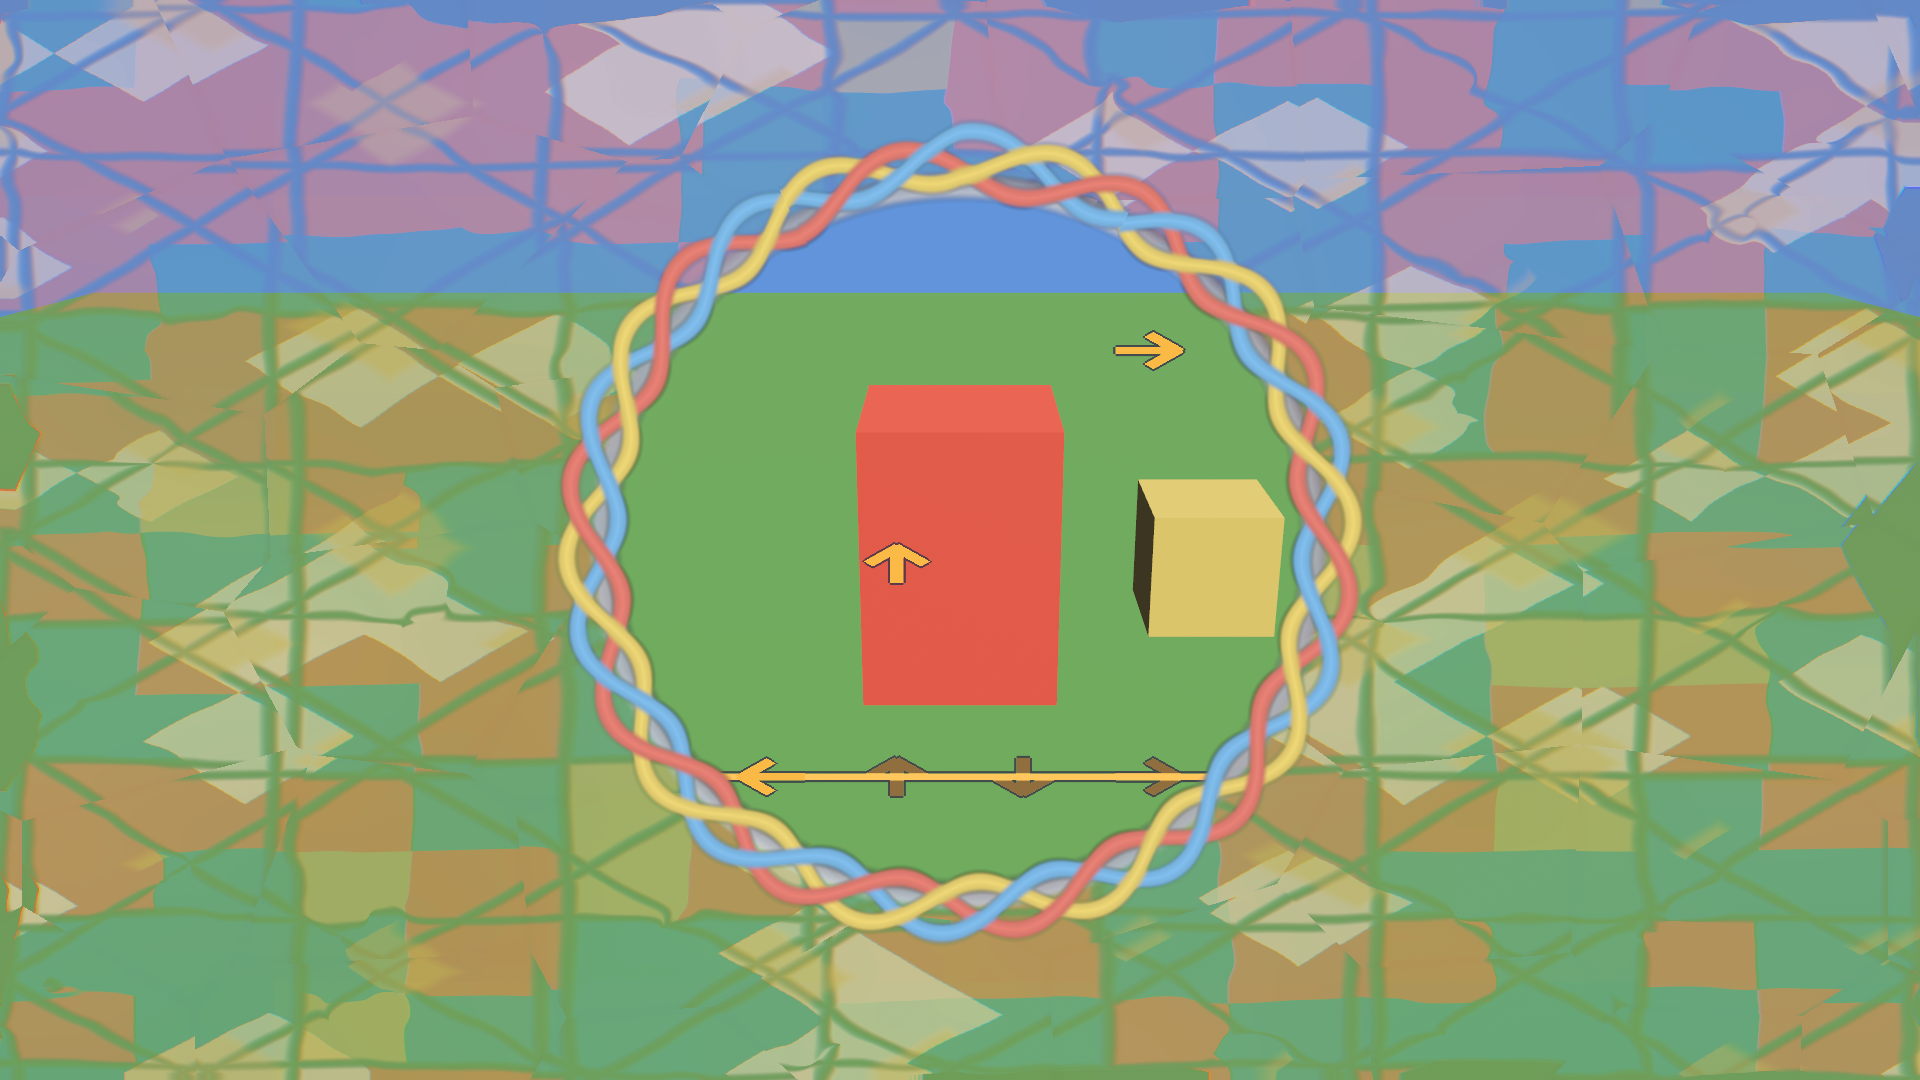
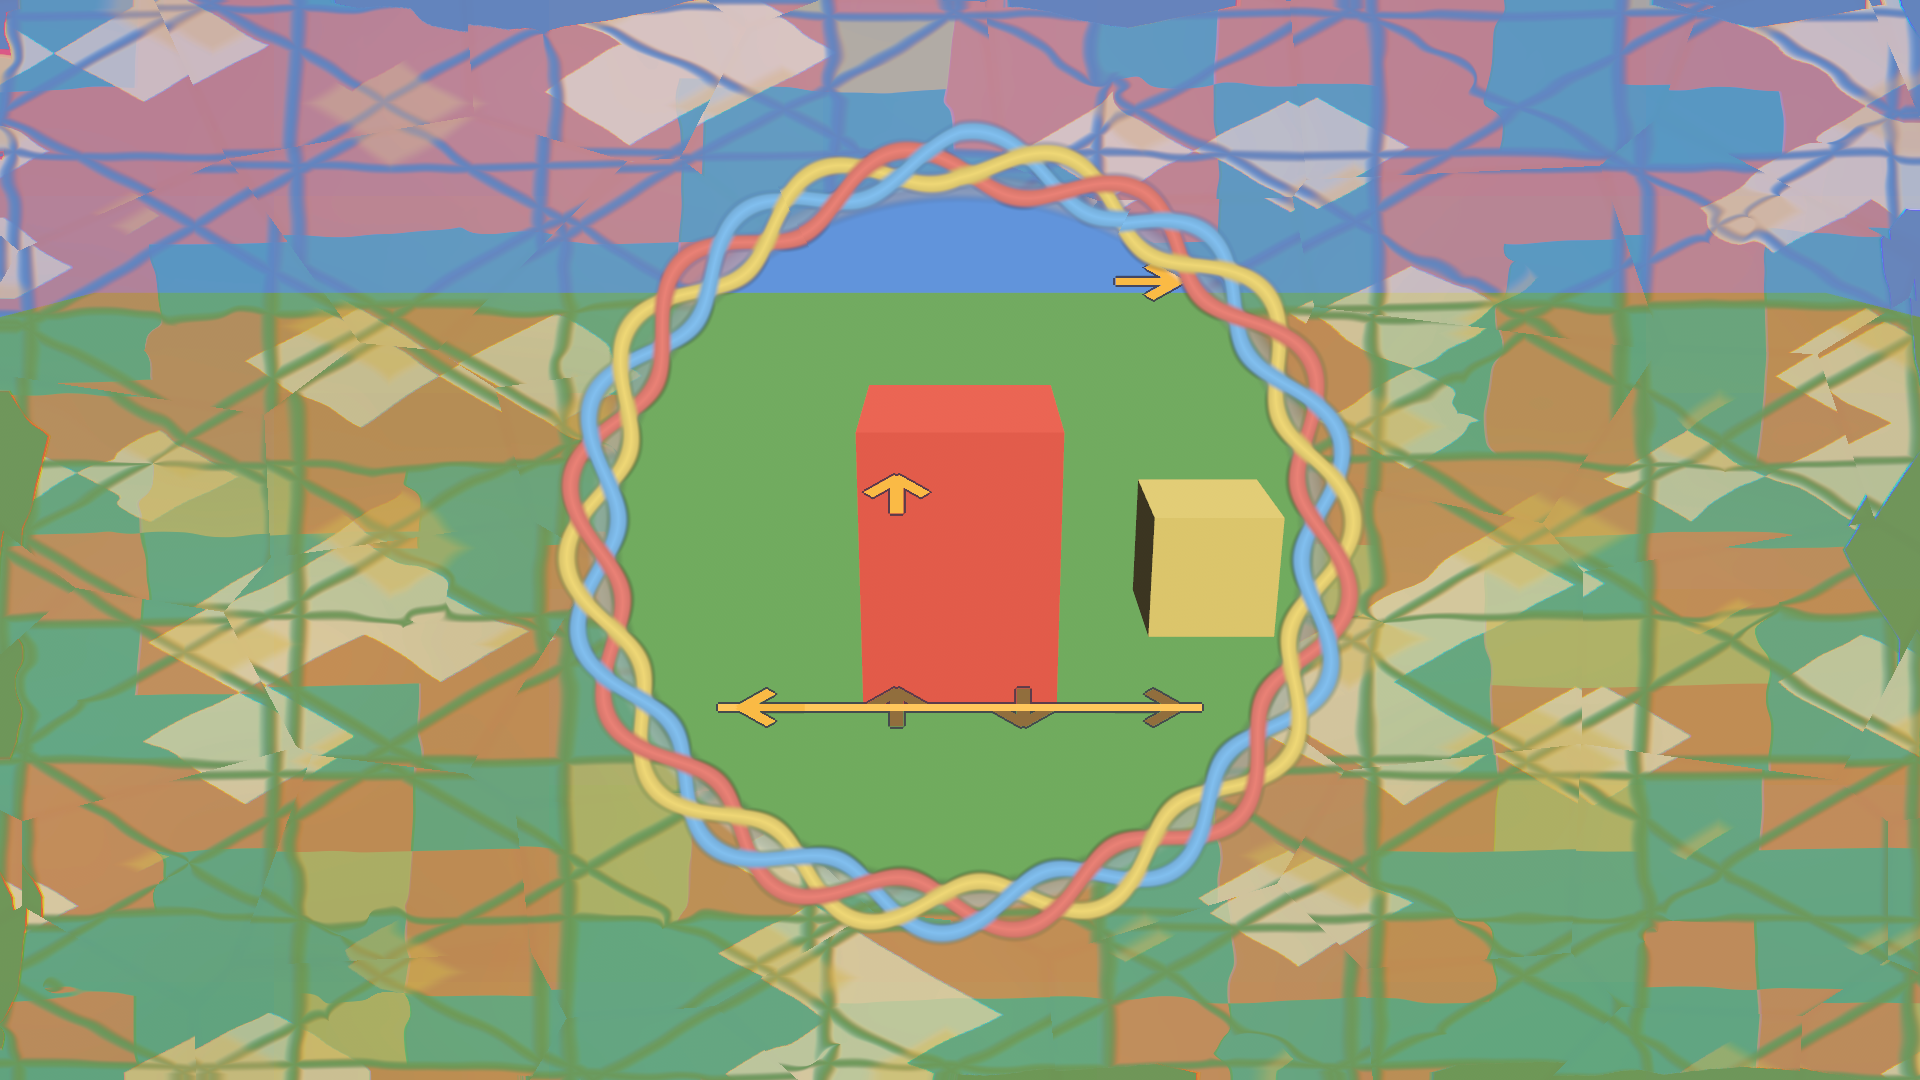
fix(skill-map): midway mosaic opacity, trim the feed hit line, fade the uncurl rim
The run-6 compositor paint sat too far on the see-through side. Floor/gain
and land veil sit roughly halfway back toward the earlier opaque field so
the map still reads while the world shows through. The DDR hit line is
derived from the 0.75 lens inner circle so it no longer runs under the
braid, and the grey rim multiplies by curl so uncurl hides it and re-plait
brings it back.

Compositor paint (the mosaic field the eye actually sees):

| knob | before (run 6) | after |
| --- | --- | --- |
| `OVERLAY_PAINT_FLOOR` | 0.16 | 0.24 |
| `OVERLAY_PAINT_GAIN` | 0.36 | 0.42 |
| mosaic `pane_alpha` | ~0.505 | ~0.643 |
| flat land `pane_alpha` | ~0.228 | ~0.319 |

Tile RT veil (RGB into the compositor; still well below mark-keep 0.72):

| knob | before | after |
| --- | --- | --- |
| `TILE_OVERLAY_ALPHA_SCALE` | 0.18 | 0.23 |
| `TILE_OVERLAY_ALPHA_BIAS` | 0.03 | 0.04 |
| land `overlay_alpha(1,1)` | 0.21 | 0.27 |

`LENS_POCKET_SCALE` stays 0.75 (~355px at 1080p). Feed `hit_line_y` /
`hit_line_width` come from the inner overlay-pixel circle so the bar's
corners stay inside the glass. GPU stills recaptured at 1920×1080.

## Agent Dialogue

- **Developer:** Liam on #1653 run 6: mosaic outside the lens is too
  transparent vs earlier runs — sit roughly midway. Trim the DDR hit
  line so it stays inside the ring. Fade the exposed grey rim while the
  braid is unravelled; bring it back on re-plait. Keep 0.75×. Recapture
  Feed idle/fire/uncurl/replait, Fireball uncurl, Cosimo idle at
[…]

diff --git a/maybraid/items/skill-map/src/feed_view.rs b/maybraid/items/skill-map/src/feed_view.rs
@@ -4,17 +4,19 @@ use bevy::prelude::*;
 use menu_components::{HudFonts, TANZ_CALLOUT_ICON_PX};
 
 use crate::feed::{FeedDirection, FeedState, FeedStepStatus, FEED_STEPS};
+use crate::lens::{SkillMapOverlayLens, BRAID_STROKE_FRAC, LENS_RING_THICKNESS_FRAC};
 use crate::map::{render_layer, AuthoredMap};
 use crate::tile_material::SkillMapTileAssets;
 use crate::user::{SkillMapHeld, SkillMapMember};
 use crate::viewport::{map_view_extent, SkillMapCollapsedChrome};
 
-const HIT_Y: f32 = -20.0;
 const TOP_Y: f32 = 22.0;
 const SCROLL_SPEED: f32 = 24.0;
 const GOLD: Color = Color::srgb(0.98, 0.73, 0.27);
 const HIT: Color = Color::srgb(0.38, 0.96, 0.65);
 const MISS: Color = Color::srgb(0.98, 0.32, 0.20);
+/// Overlay size used to translate map units onto the 16:9 held compositor.
+const OVERLAY_REFERENCE_WIDTH_PX: f32 = 1920.0;
 /// Overlay height used to translate [`TANZ_CALLOUT_ICON_PX`] into map units.
 const OVERLAY_REFERENCE_HEIGHT_PX: f32 = 1080.0;
 /// Authored chevron height (stem + barbs) before [`FeedArrow::scale`].
@@ -23,7 +25,6 @@ const FEED_ARROW_AUTHOR_HEIGHT: f32 = 7.25;
 const FEED_LANE_WIDTH: f32 = 1.0 / 3.0;
 const LANE_OUTER: f32 = 27.0 * FEED_LANE_WIDTH;
 const LANE_INNER: f32 = 9.0 * FEED_LANE_WIDTH;
-const HIT_LINE_WIDTH: f32 = 72.0 * FEED_LANE_WIDTH;
 
 #[derive(Component)]
 pub(crate) struct FeedPrompt {
@@ -56,12 +57,35 @@ impl FeedArrow {
 		Self::height() / FEED_ARROW_AUTHOR_HEIGHT
 	}
 
+	/// Lower-half receptor line, in map units, kept inside the lens glass.
+	pub fn hit_line_y() -> f32 {
+		-(Self::lens_inner_radius_px() * 0.52) / Self::overlay_px_per_map().y
+	}
+
 	pub fn hit_line_width() -> f32 {
-		HIT_LINE_WIDTH
+		let inner = Self::lens_inner_radius_px();
+		let px = Self::overlay_px_per_map();
+		let y_px = Self::hit_line_y().abs() * px.y;
+		let half_px = (inner * inner - y_px * y_px).max(0.0).sqrt() * 0.88;
+		half_px / px.x * 2.0
 	}
 
 	pub fn hit_line_color() -> Color {
 		Color::srgb(1.0, 0.78, 0.36)
+	}
+
+	fn overlay_px_per_map() -> Vec2 {
+		let extent = map_view_extent();
+		Vec2::new(
+			OVERLAY_REFERENCE_WIDTH_PX / extent.x.max(1e-5),
+			OVERLAY_REFERENCE_HEIGHT_PX / extent.y.max(1e-5),
+		)
+	}
+
+	fn lens_inner_radius_px() -> f32 {
+		SkillMapOverlayLens::min_axis_radius_frac()
+			* OVERLAY_REFERENCE_HEIGHT_PX
+			* (1.0 - LENS_RING_THICKNESS_FRAC - BRAID_STROKE_FRAC)
 	}
 
 	pub fn spawn_note(
@@ -139,12 +163,13 @@ impl FeedPrompt {
 		} else {
 			due - state.elapsed()
 		};
-		let y = HIT_Y + remaining * SCROLL_SPEED;
+		let hit_y = FeedArrow::hit_line_y();
+		let y = hit_y + remaining * SCROLL_SPEED;
 		if status == FeedStepStatus::Hit {
-			return (HIT_Y, remaining >= -0.13, HIT);
+			return (hit_y, remaining >= -0.13, HIT);
 		}
 		let color = if status == FeedStepStatus::Missed { MISS } else { GOLD };
-		(y, (HIT_Y - 10.0..=TOP_Y).contains(&y), color)
+		(y, (hit_y - 10.0..=TOP_Y).contains(&y), color)
 	}
 }
 
@@ -180,7 +205,7 @@ pub(crate) fn spawn_feed_scene(
 		{
 			board
 				.spawn((
-					Transform::from_xyz(direction.lane_x(), HIT_Y, 0.2)
+					Transform::from_xyz(direction.lane_x(), FeedArrow::hit_line_y(), 0.2)
 						.with_rotation(direction.rotation())
 						.with_scale(Vec3::splat(FeedArrow::scale())),
 					Visibility::Inherited,
@@ -195,7 +220,7 @@ pub(crate) fn spawn_feed_scene(
 				FeedArrow::hit_line_color(),
 				Vec2::new(FeedArrow::hit_line_width(), 0.6),
 			),
-			Transform::from_xyz(0.0, HIT_Y, 0.3),
+			Transform::from_xyz(0.0, FeedArrow::hit_line_y(), 0.3),
 			layer.clone(),
 		));
 	});
@@ -308,7 +333,7 @@ mod tests {
 	use character_items::{SkillMapKind, SkillMapSpec};
 
 	use crate::feed::{FeedDirection, FeedState, FEED_WINDOW_SECS};
-	use crate::feed_view::{spawn_feed_scene, FeedArrow, FeedPrompt, HIT, HIT_Y};
+	use crate::feed_view::{spawn_feed_scene, FeedArrow, FeedPrompt, HIT};
 	use crate::map::authored_map_from_spec;
 	use crate::tile_material::SkillMapTileAssets;
 	use crate::tiles::SkillMapTile;
@@ -323,11 +348,11 @@ mod tests {
 		feed.advance(FeedState::step_time(1) - FEED_WINDOW_SECS * 0.5);
 		assert!(feed.strike(Vec2::Y));
 		let up = FeedPrompt { index: 1, origin: Vec2::ZERO };
-		assert_eq!(up.presentation(&feed), (HIT_Y, true, HIT));
+		assert_eq!(up.presentation(&feed), (FeedArrow::hit_line_y(), true, HIT));
 		feed.advance(FeedState::cycle_duration() - feed.elapsed() - FEED_WINDOW_SECS * 0.5);
 		assert!(feed.strike(Vec2::NEG_X));
 		let left = FeedPrompt { index: 0, origin: Vec2::ZERO };
-		assert_eq!(left.presentation(&feed), (HIT_Y, true, HIT));
+		assert_eq!(left.presentation(&feed), (FeedArrow::hit_line_y(), true, HIT));
 	}
 
 	#[test]
@@ -408,8 +433,23 @@ mod tests {
 		assert!((FeedDirection::Up.lane_x() + 3.0).abs() < 1e-4);
 		assert!((FeedDirection::Down.lane_x() - 3.0).abs() < 1e-4);
 		assert!((FeedDirection::Right.lane_x() - 9.0).abs() < 1e-4);
-		assert!((FeedArrow::hit_line_width() - 24.0).abs() < 1e-4);
 		assert_eq!(TANZ_CALLOUT_ICON_PX, 40.0);
 		assert!((FeedArrow::hit_line_color().to_srgba().alpha - 1.0).abs() < 1e-5);
+		let px = super::OVERLAY_REFERENCE_WIDTH_PX / map_view_extent().x;
+		let py = super::OVERLAY_REFERENCE_HEIGHT_PX / map_view_extent().y;
+		let inner = crate::SkillMapOverlayLens::min_axis_radius_frac()
+			* super::OVERLAY_REFERENCE_HEIGHT_PX
+			* (1.0 - crate::LENS_RING_THICKNESS_FRAC - crate::BRAID_STROKE_FRAC);
+		let half = FeedArrow::hit_line_width() * 0.5;
+		let y = FeedArrow::hit_line_y().abs();
+		let corner = Vec2::new(half * px, y * py).length();
+		assert!(
+			corner < inner,
+			"hit line must sit inside the lens glass, corner={corner} inner={inner}"
+		);
+		assert!(
+			FeedArrow::hit_line_width() < 24.0,
+			"hit line must be shorter than the old chart-wide bar"
+		);
 	}
 }

diff --git a/maybraid/items/skill-map/src/overlay.rs b/maybraid/items/skill-map/src/overlay.rs
@@ -46,8 +46,8 @@ pub const OVERLAY_CLEAR_ALPHA: f32 = 0.024;
 pub const OVERLAY_FRAME_FILL_ALPHA: f32 = 0.010;
 /// Keep in sync with `overlay_material.wesl`. Land uses paint, not sample×bias coverage.
 pub const OVERLAY_COMPOSITOR_CAME_ALPHA: f32 = 0.084;
-pub const OVERLAY_PAINT_FLOOR: f32 = 0.16;
-pub const OVERLAY_PAINT_GAIN: f32 = 0.36;
+pub const OVERLAY_PAINT_FLOOR: f32 = 0.24;
+pub const OVERLAY_PAINT_GAIN: f32 = 0.42;
 pub const OVERLAY_PAINT_CHROMA: f32 = 2.6;
 pub const OVERLAY_PAINT_LUMA: f32 = 0.45;
 pub const OVERLAY_PAINT_RECOVER: f32 = 0.08;
@@ -56,7 +56,7 @@ pub const OVERLAY_PAINT_SATURATION: f32 = 1.45;
 pub const OVERLAY_LAND_PIGMENT: Vec3 = Vec3::new(0.58, 0.28, 0.16);
 pub const OVERLAY_MARK_ALPHA_LO: f32 = 0.60;
 pub const OVERLAY_MARK_ALPHA_HI: f32 = 0.90;
-/// Stricter keep on the lens interior so land veil (~0.21) cannot fill the hole.
+/// Stricter keep on the lens interior so land veil (~0.27) cannot fill the hole.
 /// Keep in sync with `overlay_material.wesl`.
 pub const OVERLAY_MARK_LENS_ALPHA_LO: f32 = 0.72;
 pub const OVERLAY_MARK_LENS_ALPHA_HI: f32 = 0.92;
@@ -1179,8 +1179,8 @@ mod tests {
 		assert!((OVERLAY_CLEAR_ALPHA - 0.024).abs() < 1e-6);
 		assert!((OVERLAY_FRAME_FILL_ALPHA - 0.010).abs() < 1e-6);
 		assert!((OVERLAY_WARP - 0.28).abs() < 1e-6);
-		assert!((OVERLAY_PAINT_FLOOR - 0.16).abs() < 1e-6);
-		assert!((OVERLAY_PAINT_GAIN - 0.36).abs() < 1e-6);
+		assert!((OVERLAY_PAINT_FLOOR - 0.24).abs() < 1e-6);
+		assert!((OVERLAY_PAINT_GAIN - 0.42).abs() < 1e-6);
 		assert!((OVERLAY_PAINT_LUMA - 0.45).abs() < 1e-6);
 		assert!((OVERLAY_PAINT_SATURATION - 1.45).abs() < 1e-6);
 	}
@@ -1207,13 +1207,13 @@ mod tests {
 	fn expanded_overlay_paints_mosaic_without_a_coverage_sheet() {
 		let mosaic = SkillMapOverlay::Expanded.pane_alpha(1.0);
 		let flat = SkillMapOverlay::Expanded.pane_alpha_for_pigment(Vec3::splat(0.42), 1.0);
-		assert!(flat >= 0.20, "earthy land must still stamp, not vanish, got {flat}");
-		assert!(flat <= 0.32, "low-chroma land must leave world geometry readable, got {flat}");
+		assert!(flat >= 0.28, "earthy land must still stamp, not vanish, got {flat}");
+		assert!(flat <= 0.40, "low-chroma land must leave world geometry readable, got {flat}");
 		assert!(
 			mosaic > flat + 0.12,
 			"mosaic ink must paint harder than a flat wash ({mosaic} vs {flat})"
 		);
-		assert!(mosaic <= 0.62, "even saturated land must leave the world visible, got {mosaic}");
+		assert!(mosaic <= 0.72, "even saturated land must leave the world visible, got {mosaic}");
 		assert!((SkillMapOverlay::Collapsed.pane_alpha(1.0) - 1.0).abs() < 1e-5);
 	}
 

diff --git a/maybraid/items/skill-map/src/lens.rs b/maybraid/items/skill-map/src/lens.rs
@@ -348,7 +348,7 @@ impl OverlayParams {
 		let d = (r - radius).abs();
 		let span = (thick * 0.65).max(1e-4);
 		let t = ((d - thick * 0.35) / span).clamp(0.0, 1.0);
-		(1.0 - t * t * (3.0 - 2.0 * t)) * self.amount
+		(1.0 - t * t * (3.0 - 2.0 * t)) * self.amount * self.curl.clamp(0.0, 1.0).powf(1.6)
 	}
 
 	pub fn braid_sample(self, uv: Vec2, size: Vec2) -> OverlayBraidSample {
@@ -850,6 +850,34 @@ mod tests {
 		assert!(
 			flash_c.max_element() > idle_c.max_element() + 0.25,
 			"braid must flash brighter, idle={idle_c} flash={flash_c}"
+		);
+		Ok(())
+	}
+
+	#[test]
+	fn ring_fades_while_the_braid_unravels() -> anyhow::Result<()> {
+		let size = square();
+		let idle = idle_params();
+		let open = OverlayParams::from_overlay_lens(
+			SkillMapOverlay::Expanded,
+			SkillMapOverlayLens::mid_uncurl(),
+		);
+		let shut = OverlayParams::from_overlay_lens(
+			SkillMapOverlay::Expanded,
+			SkillMapOverlayLens::mid_replait(),
+		);
+		let rim = Vec2::new(0.5 + idle.lens_radius, 0.5);
+		let idle_ring = idle.ring_alpha(rim, size);
+		let open_ring = open.ring_alpha(rim, size);
+		let shut_ring = shut.ring_alpha(rim, size);
+		assert!(idle_ring > 0.4, "idle ring stays on, got {idle_ring}");
+		assert!(
+			open_ring < idle_ring * 0.35,
+			"uncurl must hide the grey rim, idle={idle_ring} open={open_ring}"
+		);
+		assert!(
+			shut_ring > open_ring + 0.15,
+			"re-plait must bring the rim back, open={open_ring} shut={shut_ring}"
 		);
 		Ok(())
 	}

diff --git a/maybraid/items/skill-map/src/tile_material.rs b/maybraid/items/skill-map/src/tile_material.rs
@@ -26,8 +26,8 @@ pub const TILE_KIND_COSMO: f32 = 9.0;
 const TILE_DIVISIONS: u32 = 12;
 /// Keep in sync with `tile_material.wesl` overlay alpha mix (land/mosaic only).
 /// Was `0.28` / `0.05` on 913ff6fe4 (~0.33 tile α, ~0.34 pane).
-pub const TILE_OVERLAY_ALPHA_SCALE: f32 = 0.18;
-pub const TILE_OVERLAY_ALPHA_BIAS: f32 = 0.03;
+pub const TILE_OVERLAY_ALPHA_SCALE: f32 = 0.23;
+pub const TILE_OVERLAY_ALPHA_BIAS: f32 = 0.04;
 pub const TILE_OVERLAY_ALPHA_MIX_GAIN: f32 = 1.85;
 
 #[derive(Clone, Copy, Debug, ShaderType)]
@@ -303,6 +303,6 @@ mod tests {
 				< SkillMapTileMaterial::overlay_alpha(1.0, 0.0)
 		);
 		assert_eq!(SkillMapTileMaterial::overlay_alpha_for_kind(1.0, 1.0, TILE_KIND_FIRE), 1.0);
-		assert!(SkillMapTileMaterial::overlay_alpha_for_kind(1.0, 1.0, TILE_KIND_LAND_ROCK) < 0.22);
+		assert!(SkillMapTileMaterial::overlay_alpha_for_kind(1.0, 1.0, TILE_KIND_LAND_ROCK) < 0.32);
 	}
 }

diff --git a/maybraid/items/skill-map/README.md b/maybraid/items/skill-map/README.md
@@ -45,11 +45,12 @@ sines, integer twists, true over/under stacking). Inside the ring is a clear
 window onto the live 3D world (the little centre cursor is replaced); outside
 is the skill map as before. Feed arrows and the hit line stay drawn on top of
 that window, with a dark outline so they read against the world; the lens
-itself is not tinted. Skill activation flashes the braid and sends a
+itself is not tinted, and the hit line is trimmed to sit inside the braid
+ring. Skill activation flashes the braid and sends a
 bright sheen sweeping across the lens glass; a water Debraid unravels the
 strands from the top of the ring into loose curling ribbons (kept on-screen,
-outside the lens — not flattened dashed bands hugging the rim) and then
-re-plaits them. Releasing RB restores the HUD and fades the blur out. The expand edge plays
+outside the lens — not flattened dashed bands hugging the rim) while the
+flat grey rim fades with the uncurl and returns on re-plait. Releasing RB restores the HUD and fades the blur out. The expand edge plays
 the authored `change_item` clip on the UI bus; releasing RB is silent. The clock pauses when skill-map input is inactive or gameplay
 is suspended. Changing the equipped map starts a fresh feed on the next RB
 hold.
